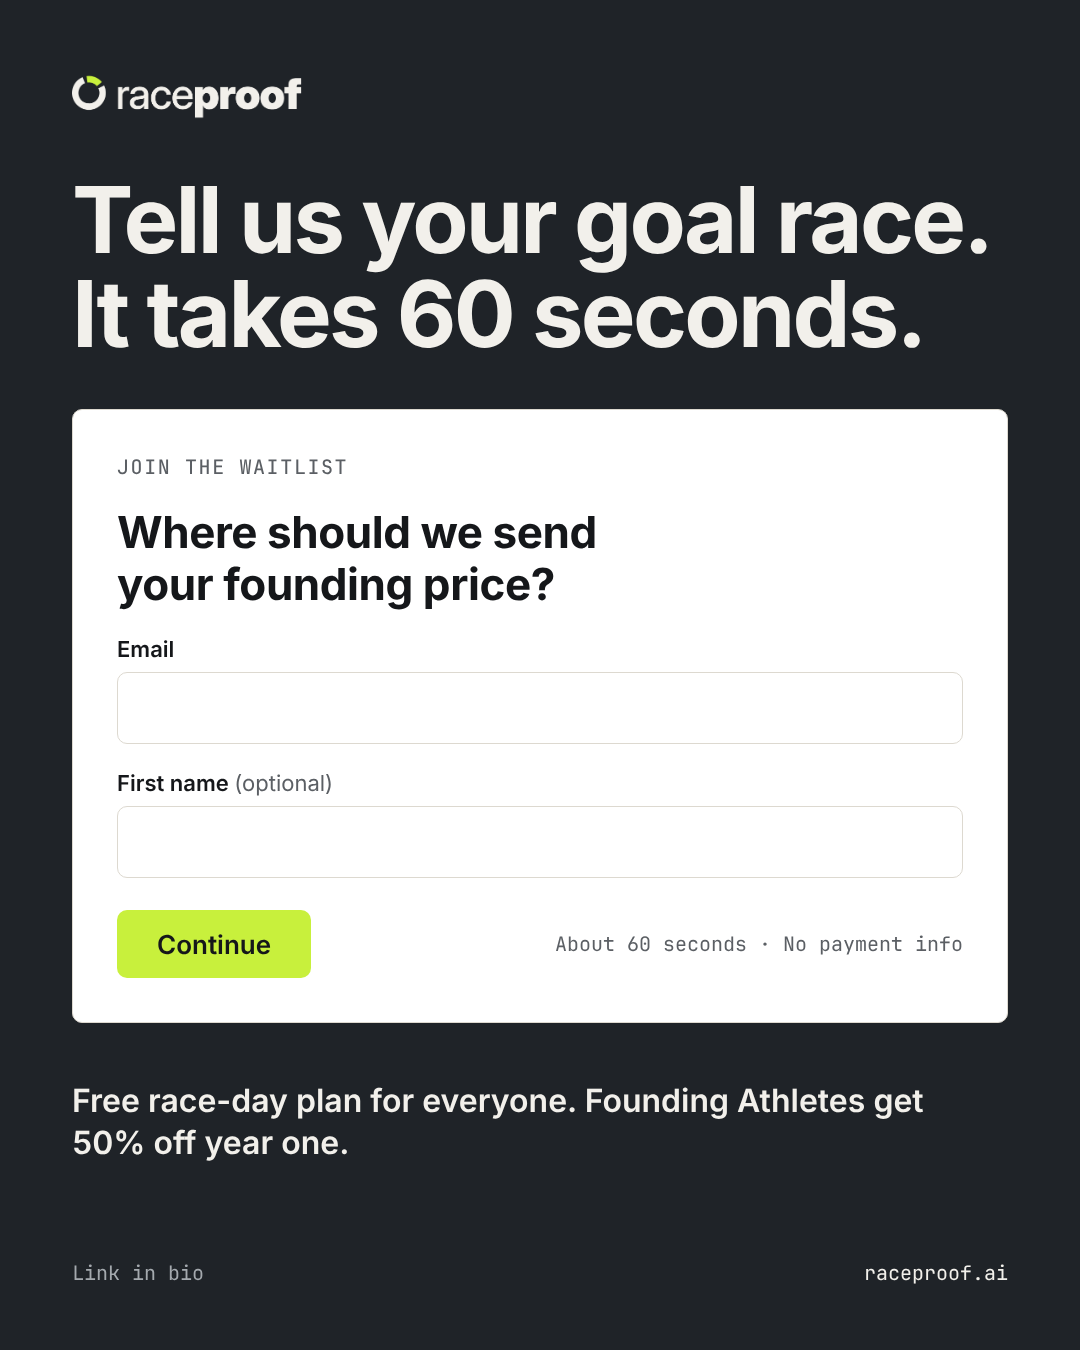
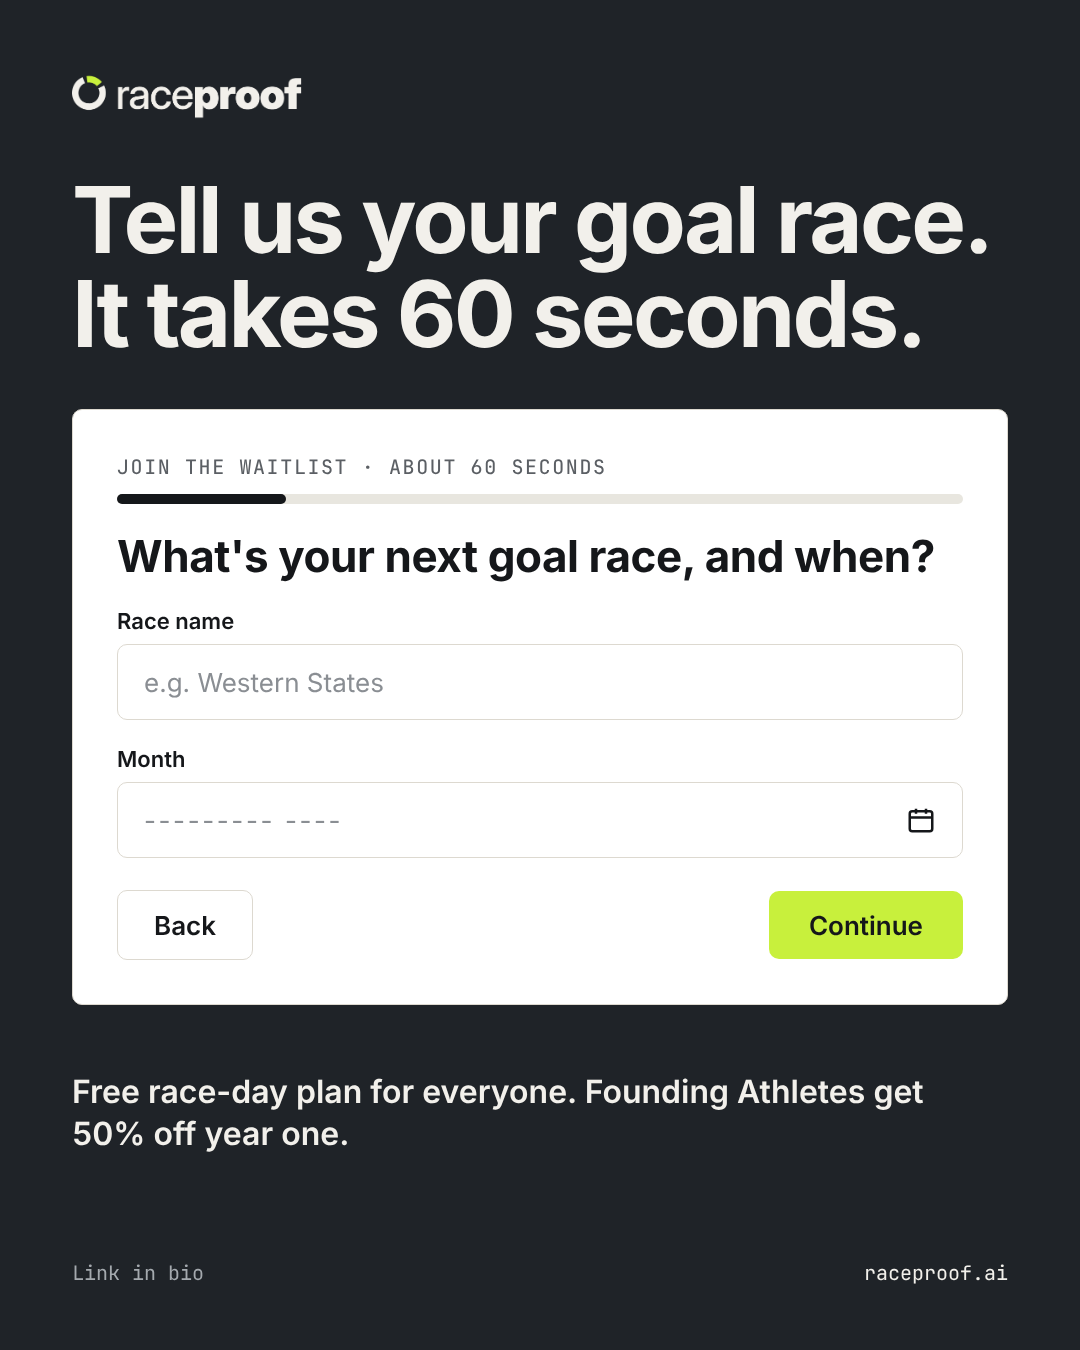
Sat Oct 24 waitlist post: show the race question
Claude-Session: https://claude.ai/code/session_01DUWnFyAKQLK2vypXwpMdiV

diff --git a/posts/2026-10-19/sun-waitlist-goal-race-1.html b/posts/2026-10-19/sun-waitlist-goal-race-1.html
@@ -18,19 +18,23 @@ h1,h2{text-wrap:balance}p,div,span{text-wrap:pretty}
 </div>
 <h1 style="margin: 0; font-size: 92px; line-height: 94px; font-weight: 800; letter-spacing: -0.03em">Tell us your goal race. It takes 60 seconds.</h1>
 <div style="background: #FFFFFF; color: #15171A; border: 1px solid #DDD9D0; border-radius: 10px; padding: 44px; display: flex; flex-direction: column; gap: 26px">
-<div style="font-family: 'JetBrains Mono', ui-monospace, monospace; font-size: 20px; font-weight: 500; letter-spacing: 0.08em; color: #5B5F64">JOIN THE WAITLIST</div>
-<h2 style="margin: 0; font-size: 44px; line-height: 52px; font-weight: 700; letter-spacing: -0.01em">Where should we send your founding price?</h2>
+<div style="display: flex; flex-direction: column; gap: 14px">
+<div style="font-family: 'JetBrains Mono', ui-monospace, monospace; font-size: 20px; font-weight: 500; letter-spacing: 0.08em; color: #5B5F64">JOIN THE WAITLIST · ABOUT 60 SECONDS</div>
+<div style="height: 10px; border-radius: 5px; background: #E8E6DF"><div style="width: 20%; height: 10px; border-radius: 5px; background: #15171A"></div></div>
+</div>
+<h2 style="margin: 0; font-size: 44px; line-height: 52px; font-weight: 700; letter-spacing: -0.01em">What's your next goal race, and&nbsp;when?</h2>
 <div style="display: flex; flex-direction: column; gap: 10px">
-<span style="font-size: 22px; font-weight: 600">Email</span>
-<div style="height: 72px; border: 1px solid #DDD9D0; border-radius: 10px; box-sizing: border-box"></div>
+<span style="font-size: 22px; font-weight: 600">Race name</span>
+<div style="height: 76px; border: 1px solid #DDD9D0; border-radius: 10px; box-sizing: border-box; display: flex; align-items: center; justify-content: space-between; padding: 0 26px; font-size: 26px"><span style="color: #8A8E93">e.g. Western States</span></div>
 </div>
 <div style="display: flex; flex-direction: column; gap: 10px">
-<span style="font-size: 22px; font-weight: 600">First name <span style="color: #5B5F64; font-weight: 400">(optional)</span></span>
-<div style="height: 72px; border: 1px solid #DDD9D0; border-radius: 10px; box-sizing: border-box"></div>
+<span style="font-size: 22px; font-weight: 600">Month</span>
+<div style="height: 76px; border: 1px solid #DDD9D0; border-radius: 10px; box-sizing: border-box; display: flex; align-items: center; justify-content: space-between; padding: 0 26px; font-size: 26px"><span style="color: #8A8E93; letter-spacing: 0.1em">--------- ----</span>
+<svg width="30" height="30" viewBox="0 0 24 24" fill="none" stroke="#15171A" stroke-width="2"><rect x="3" y="5" width="18" height="16" rx="2"/><path d="M3 10h18M8 3v4M16 3v4"/></svg></div>
 </div>
 <div style="display: flex; align-items: center; justify-content: space-between; gap: 24px; margin-top: 6px">
+<div style="display: inline-flex; align-items: center; min-height: 68px; padding: 0 36px; border-radius: 10px; border: 1px solid #DDD9D0; color: #15171A; font-size: 26px; font-weight: 600">Back</div>
 <div style="display: inline-flex; align-items: center; min-height: 68px; padding: 0 40px; border-radius: 10px; background: #C8F03C; color: #15171A; font-size: 26px; font-weight: 600">Continue</div>
-<span style="font-family: 'JetBrains Mono', ui-monospace, monospace; font-size: 20px; color: #5B5F64">About 60 seconds · No payment info</span>
 </div>
 </div>
 <div style="margin-top: auto; display: flex; flex-direction: column; gap: 12px">
